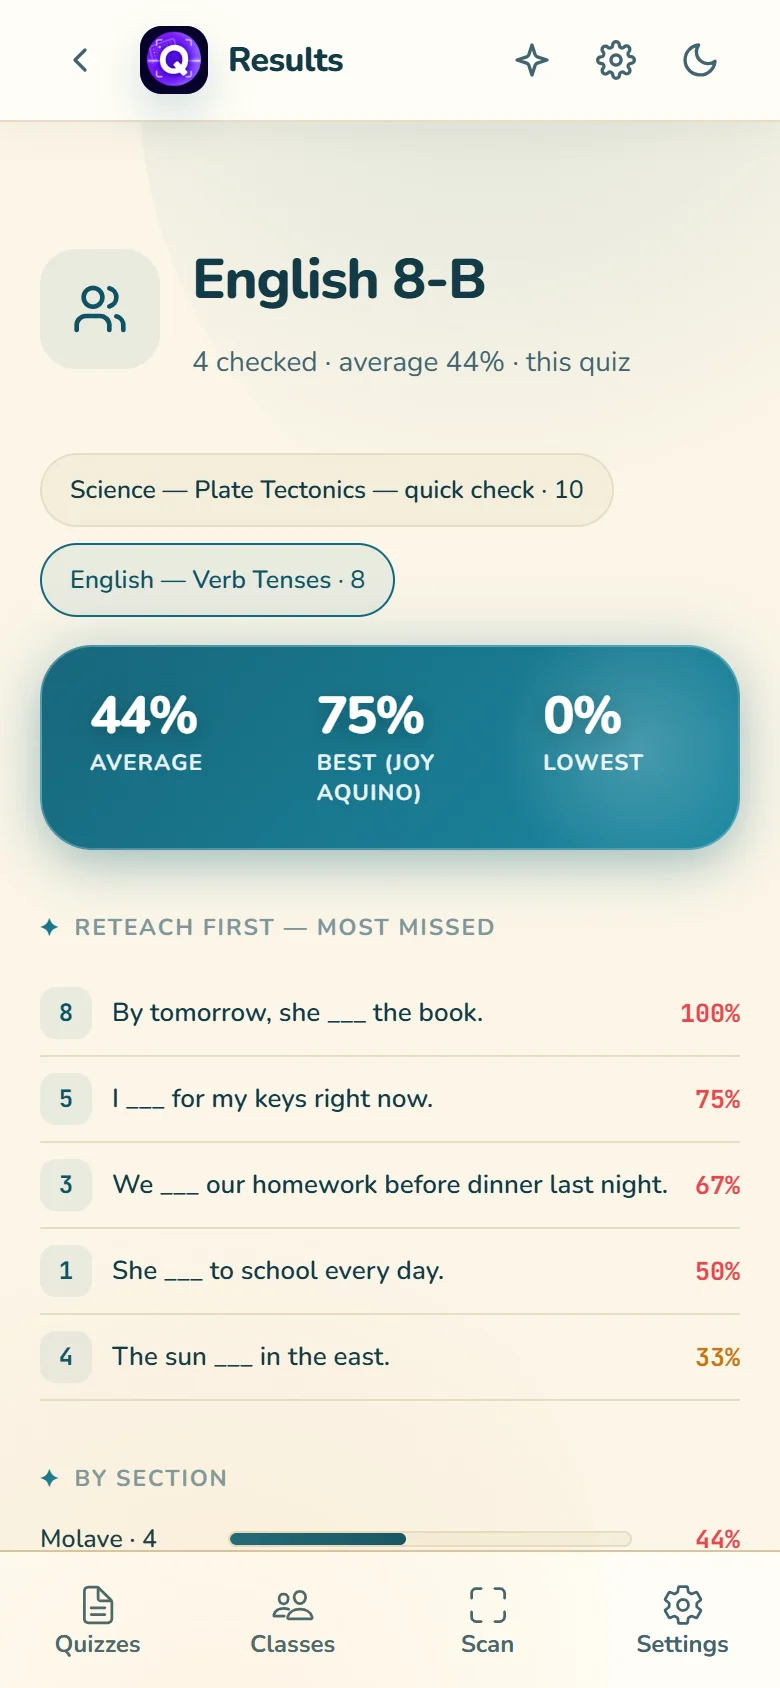
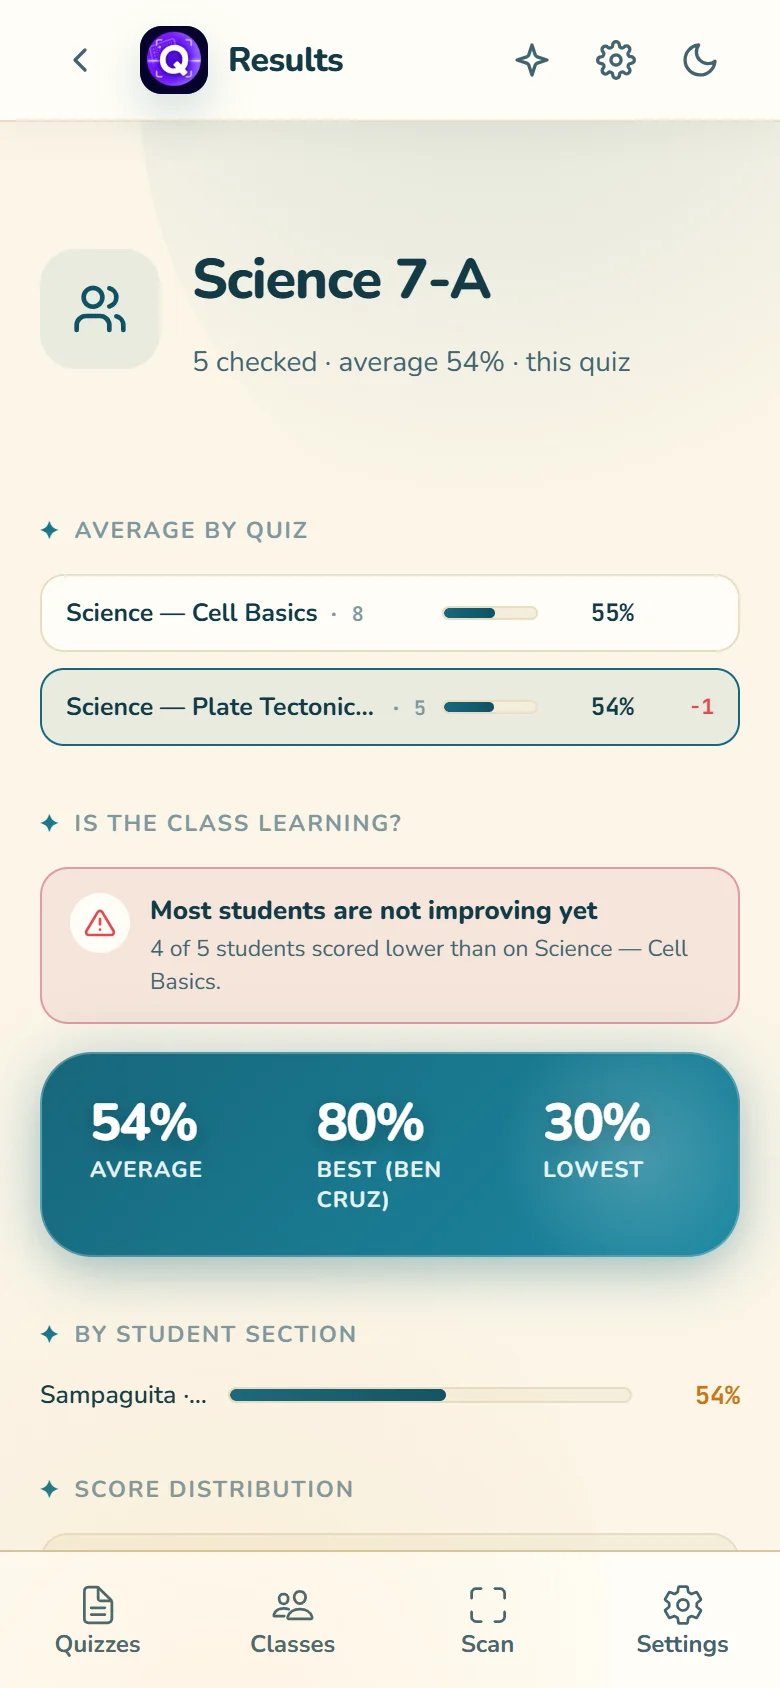
Add anonymous star ratings to the docs

diff --git a/index.html b/index.html
@@ -150,6 +150,56 @@
       </div>
     </section>
 
+    <section class="rating-section" id="rate">
+      <div class="wrap">
+        <div class="rating-card reveal" data-rating>
+          <svg class="rating-star-defs" aria-hidden="true" focusable="false">
+            <symbol id="rating-star" viewBox="0 0 24 24">
+              <path d="M12 2.6l2.9 6 6.6.9-4.8 4.6 1.2 6.5-5.9-3.1-5.9 3.1 1.2-6.5L2.5 9.5l6.6-.9z"/>
+            </symbol>
+          </svg>
+
+          <div class="rating-copy">
+            <span class="eyebrow">Rate Quizard</span>
+            <h2>How's it working for you?</h2>
+            <p>Tap a star. Your rating is anonymous and helps other teachers decide whether to try Quizard.</p>
+          </div>
+
+          <div class="rating-widget">
+            <div class="rating-score">
+              <b data-rating-average>&mdash;</b>
+              <div class="rating-average-stars" aria-hidden="true">
+                <div class="rating-stars-base">
+                  <svg class="rating-star" viewBox="0 0 24 24"><use href="#rating-star"></use></svg>
+                  <svg class="rating-star" viewBox="0 0 24 24"><use href="#rating-star"></use></svg>
+                  <svg class="rating-star" viewBox="0 0 24 24"><use href="#rating-star"></use></svg>
+                  <svg class="rating-star" viewBox="0 0 24 24"><use href="#rating-star"></use></svg>
+                  <svg class="rating-star" viewBox="0 0 24 24"><use href="#rating-star"></use></svg>
+                </div>
+                <div class="rating-stars-fill" data-rating-fill>
+                  <svg class="rating-star" viewBox="0 0 24 24"><use href="#rating-star"></use></svg>
+                  <svg class="rating-star" viewBox="0 0 24 24"><use href="#rating-star"></use></svg>
+                  <svg class="rating-star" viewBox="0 0 24 24"><use href="#rating-star"></use></svg>
+                  <svg class="rating-star" viewBox="0 0 24 24"><use href="#rating-star"></use></svg>
+                  <svg class="rating-star" viewBox="0 0 24 24"><use href="#rating-star"></use></svg>
+                </div>
+              </div>
+              <span class="rating-count" data-rating-count>Loading ratings&hellip;</span>
+            </div>
+
+            <div class="rating-input" role="group" aria-label="Rate Quizard from 1 to 5 stars">
+              <button type="button" data-star="1" aria-label="Rate 1 star" aria-pressed="false"><svg class="rating-star" viewBox="0 0 24 24"><use href="#rating-star"></use></svg></button>
+              <button type="button" data-star="2" aria-label="Rate 2 stars" aria-pressed="false"><svg class="rating-star" viewBox="0 0 24 24"><use href="#rating-star"></use></svg></button>
+              <button type="button" data-star="3" aria-label="Rate 3 stars" aria-pressed="false"><svg class="rating-star" viewBox="0 0 24 24"><use href="#rating-star"></use></svg></button>
+              <button type="button" data-star="4" aria-label="Rate 4 stars" aria-pressed="false"><svg class="rating-star" viewBox="0 0 24 24"><use href="#rating-star"></use></svg></button>
+              <button type="button" data-star="5" aria-label="Rate 5 stars" aria-pressed="false"><svg class="rating-star" viewBox="0 0 24 24"><use href="#rating-star"></use></svg></button>
+            </div>
+            <p class="rating-message" data-rating-message aria-live="polite"></p>
+          </div>
+        </div>
+      </div>
+    </section>
+
     <section class="section" id="features">
       <div class="wrap">
         <div class="section-head reveal">
@@ -196,7 +246,7 @@
               <svg viewBox="0 0 24 24" fill="none" stroke="currentColor" stroke-width="2" stroke-linecap="round" stroke-linejoin="round"><line x1="12" y1="20" x2="12" y2="10"/><line x1="18" y1="20" x2="18" y2="4"/><line x1="6" y1="20" x2="6" y2="16"/></svg>
             </span>
             <h3>Results &amp; reports</h3>
-            <p>Class average, best and lowest, most-missed questions, section breakdown, and score distribution — with CSV and PDF exports.</p>
+            <p>Every quiz's class average, the point change, whether most students improved, and score distribution — plus a per-student answer review with the full question, every choice, and the key. Item analysis rides along in the CSV and PDF exports.</p>
           </article>
 
           <article class="feature-card reveal">
@@ -248,8 +298,8 @@
             <figcaption><b>Scan papers</b><span>Pick a class, then scan — each QR names its quiz and student.</span></figcaption>
           </figure>
           <figure class="shot reveal">
-            <div class="phone-frame"><img src="assets/screens/07-results.webp" alt="Results screen with average, best, lowest, most-missed questions, and section breakdown" loading="lazy" width="780" height="1688" /></div>
-            <figcaption><b>Know what to reteach</b><span>Averages, most-missed items, section bars, and score spread.</span></figcaption>
+            <div class="phone-frame"><img src="assets/screens/07-results.webp" alt="Results screen showing each quiz's class average, the point change, and whether most students improved" loading="lazy" width="780" height="1688" /></div>
+            <figcaption><b>See the trend</b><span>Every quiz's class average, the point change, and whether most students improved.</span></figcaption>
           </figure>
         </div>
       </div>
@@ -286,7 +336,7 @@
           <li class="step reveal">
             <span class="step-n">5</span>
             <h3>See the results</h3>
-            <p>Scores attach to the right student. Open results to see averages and the questions to reteach.</p>
+            <p>Scores attach to the right student. Open results to see each quiz's class average and whether most students improved.</p>
           </li>
         </ol>
 

diff --git a/script.js b/script.js
@@ -69,3 +69,127 @@
     sections.forEach(s => spy.observe(s));
   }
 })();
+
+// ── Docs ratings ──
+// Anonymous one-per-browser star rating. The average lives in the Cloudflare
+// relay's KV, so every visitor sees the same number; the browser id only lets
+// the same person change their vote instead of stuffing the ballot.
+(() => {
+  const widget = document.querySelector('[data-rating]');
+  if (!widget) return;
+
+  const local = /^(localhost|127\.0\.0\.1)$/.test(location.hostname);
+  const endpoint = local ? '/ratings' : 'https://quizard-relay.quizard-app.workers.dev/ratings';
+  const buttons = [...widget.querySelectorAll('[data-star]')];
+  const avgEl = widget.querySelector('[data-rating-average]');
+  const countEl = widget.querySelector('[data-rating-count]');
+  const fillEl = widget.querySelector('[data-rating-fill]');
+  const msgEl = widget.querySelector('[data-rating-message]');
+
+  const CLIENT_KEY = 'quizard-rating-client';
+  const VALUE_KEY = 'quizard-rating-value';
+  let busy = false;
+  let myRating = 0;
+
+  const read = (key) => { try { return localStorage.getItem(key); } catch { return null; } };
+  const write = (key, value) => { try { localStorage.setItem(key, value); } catch {} };
+
+  let clientId = read(CLIENT_KEY);
+  if (!clientId) {
+    clientId = globalThis.crypto?.randomUUID?.()
+      || 'r-' + Date.now().toString(36) + '-' + Math.random().toString(36).slice(2, 10);
+    write(CLIENT_KEY, clientId);
+  }
+  myRating = Math.min(5, Math.max(0, Number(read(VALUE_KEY)) || 0));
+
+  function paintInput() {
+    buttons.forEach((button, i) => {
+      button.classList.toggle('on', i < myRating);
+      button.setAttribute('aria-pressed', String(myRating === i + 1));
+    });
+  }
+
+  function paintSummary(data) {
+    const count = Math.max(0, Number(data?.count) || 0);
+    const average = count ? Math.min(5, Math.max(0, Number(data?.average) || 0)) : 0;
+    if (avgEl) avgEl.textContent = count ? average.toFixed(1) : '—';
+    if (countEl) countEl.textContent = count
+      ? `${count} rating${count === 1 ? '' : 's'}`
+      : 'No ratings yet';
+    if (fillEl) fillEl.style.width = `${(average / 5) * 100}%`;
+  }
+
+  function setBusy(on) {
+    busy = on;
+    widget.classList.toggle('busy', on);
+    buttons.forEach(b => { b.disabled = on; });
+    if (!on) {
+      buttons.forEach(b => b.classList.remove('preview'));
+      paintInput();
+    }
+  }
+
+  async function load() {
+    try {
+      const res = await fetch(endpoint, { cache: 'no-store' });
+      if (!res.ok) throw new Error('ratings_http_' + res.status);
+      paintSummary(await res.json());
+      if (myRating && msgEl) {
+        msgEl.textContent = `You rated Quizard ${myRating} star${myRating === 1 ? '' : 's'}. Tap another star to change it.`;
+      }
+    } catch {
+      if (avgEl) avgEl.textContent = '—';
+      if (countEl) countEl.textContent = 'Ratings unavailable';
+      if (fillEl) fillEl.style.width = '0%';
+    }
+    paintInput();
+  }
+
+  async function rate(stars) {
+    if (busy) return;
+    setBusy(true);
+    if (msgEl) msgEl.textContent = 'Saving your rating…';
+    try {
+      const res = await fetch(endpoint, {
+        method: 'POST',
+        headers: { 'Content-Type': 'application/json' },
+        body: JSON.stringify({ stars, clientId })
+      });
+      if (!res.ok) throw new Error('ratings_http_' + res.status);
+      paintSummary(await res.json());
+      myRating = stars;
+      write(VALUE_KEY, String(stars));
+      if (msgEl) msgEl.textContent = `Thanks — you rated Quizard ${stars} star${stars === 1 ? '' : 's'}. Tap another star to change it.`;
+    } catch {
+      if (msgEl) msgEl.textContent = 'Could not save your rating. Please try again.';
+    } finally {
+      setBusy(false);
+    }
+  }
+
+  function preview(n) {
+    if (busy) return;
+    buttons.forEach((b, i) => {
+      b.classList.toggle('preview', i < n);
+      b.classList.remove('on');
+    });
+  }
+
+  function clearPreview() {
+    if (busy) return;
+    buttons.forEach(b => b.classList.remove('preview'));
+    paintInput();
+  }
+
+  buttons.forEach((button) => {
+    const n = Number(button.dataset.star);
+    button.addEventListener('click', () => rate(n));
+    button.addEventListener('mouseenter', () => preview(n));
+    button.addEventListener('focus', () => preview(n));
+    button.addEventListener('mouseleave', clearPreview);
+    button.addEventListener('blur', clearPreview);
+  });
+
+  paintInput();
+  load();
+})();

diff --git a/styles.css b/styles.css
@@ -274,6 +274,55 @@ html[data-theme="dark"] .btn-primary:hover { color: #062124; }
 @media (max-width: 900px) { .offline-grid { grid-template-columns: 1fr; gap: 24px; } }
 @media (max-width: 520px) { .offline-band { padding: 40px 0; } .offline-card { padding: 14px; } }
 
+/* ── Ratings ── */
+.rating-section { padding: 64px 0 0; }
+.rating-card {
+  display: flex; align-items: center; justify-content: space-between; gap: 36px;
+  padding: 26px 30px; border-radius: var(--radius-lg);
+  background: linear-gradient(135deg, var(--surface), var(--surface-2));
+  border: 1px solid var(--border); box-shadow: var(--shadow-soft);
+}
+.rating-copy { max-width: 560px; }
+.rating-copy .eyebrow { margin-bottom: 8px; }
+.rating-copy h2 { font-size: clamp(1.55rem, 2.6vw, 2.2rem); }
+.rating-copy p { margin: 10px 0 0; font-size: 13.5px; color: var(--text-dim); max-width: 520px; }
+.rating-widget { flex: none; display: flex; flex-direction: column; align-items: flex-end; gap: 8px; }
+.rating-score { display: flex; align-items: center; gap: 10px; }
+.rating-score > b { font-family: var(--mono); font-size: 34px; line-height: 1; letter-spacing: -0.04em; color: var(--text); }
+.rating-average-stars { position: relative; display: inline-flex; line-height: 0; }
+.rating-stars-base, .rating-stars-fill { display: flex; gap: 3px; color: var(--text-faint); }
+.rating-stars-fill { position: absolute; inset: 0; overflow: hidden; color: var(--gold); white-space: nowrap; width: 0; }
+.rating-star { width: 21px; height: 21px; display: block; flex: none; fill: currentColor; }
+.rating-count { font-size: 11.5px; font-weight: 700; color: var(--text-dim); white-space: nowrap; }
+.rating-input { display: flex; gap: 2px; }
+.rating-input button {
+  width: 38px; height: 38px; padding: 0; border: 0; border-radius: 10px;
+  display: grid; place-items: center; background: transparent; color: var(--text-faint);
+  cursor: pointer; transition: color .12s ease, background-color .12s ease, transform .12s ease;
+}
+.rating-input button .rating-star { width: 27px; height: 27px; }
+.rating-input button:hover, .rating-input button:focus-visible, .rating-input button.on,
+.rating-input button.preview { color: var(--gold); }
+.rating-input button:hover { background: var(--gold-soft); transform: translateY(-1px); }
+.rating-input button:focus-visible { outline: 2px solid var(--accent); outline-offset: 2px; }
+.rating-input button:disabled { cursor: default; opacity: .55; transform: none; }
+.rating-message { min-height: 17px; margin: 0; font-size: 11px; color: var(--text-faint); text-align: right; }
+.rating-card.busy { opacity: .85; }
+.rating-star-defs { position: absolute; width: 0; height: 0; overflow: hidden; }
+@media (max-width: 760px) {
+  .rating-section { padding: 44px 0 0; }
+  .rating-card { flex-direction: column; align-items: flex-start; padding: 22px; gap: 18px; }
+  .rating-widget { width: 100%; align-items: flex-start; }
+  .rating-message { text-align: left; }
+}
+@media (max-width: 420px) {
+  .rating-score { gap: 8px; }
+  .rating-score > b { font-size: 28px; }
+  .rating-average-stars .rating-star { width: 18px; height: 18px; }
+  .rating-input button { width: 34px; height: 34px; }
+  .rating-input button .rating-star { width: 24px; height: 24px; }
+}
+
 /* ── Sections ── */
 .section { padding: 96px 0; }
 .section-alt { background: var(--bg-2); border-top: 1px solid var(--border); border-bottom: 1px solid var(--border); }
@@ -517,7 +566,8 @@ html[data-theme="dark"] .flow-n { color: #062124; }
   .js .reveal { opacity: 0; transform: none; transition: opacity .4s ease; transition-delay: var(--reveal-delay, 0ms); }
   .js .reveal.in { opacity: 1; }
   .btn:hover, .feature-card:hover, .shot:hover .phone-frame, .install-card:hover,
-  .doc:hover, .faq:hover, .qr-card:hover, .flow-step:hover, .offline-card:hover {
+  .doc:hover, .faq:hover, .qr-card:hover, .flow-step:hover, .offline-card:hover,
+  .rating-input button:hover {
     transform: none !important;
   }
 }
